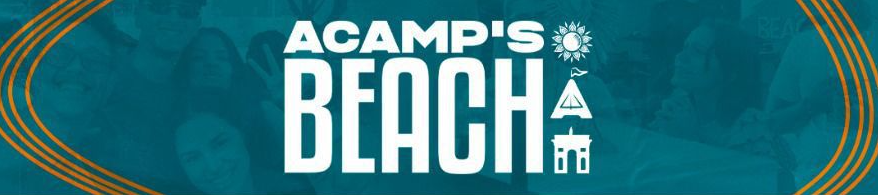
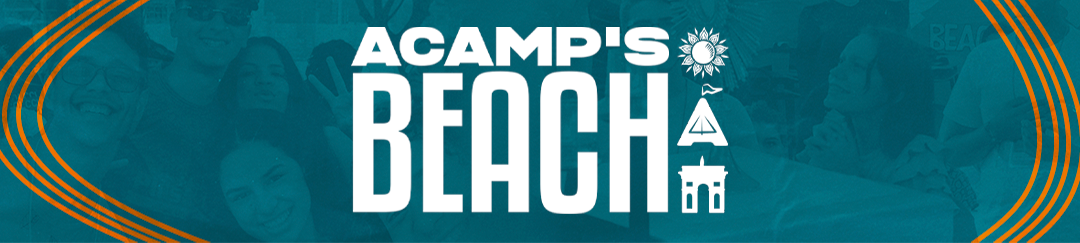
added new images and updated the olders, created the base of the form with zod and react-hook-form

Changed region(s): [[0.3075, 0.0923, 0.6765, 0.8923], [0.0, 0.0, 0.2153, 1.0], [0.8918, 0.0, 1.0, 1.0]]

diff --git a/src/pages/index.tsx b/src/pages/index.tsx
@@ -1,15 +1,46 @@
 import Header from "@/components/header";
-import { Image } from "@chakra-ui/react";
+import {
+  Box,
+  Button,
+  FormControl,
+  FormErrorMessage,
+  FormLabel,
+  Grid,
+  Heading,
+  Image,
+  Input,
+  VStack,
+} from "@chakra-ui/react";
 import AcampsBeach from "../Assets/AcampsBeach.png";
 import AcampsBeachFooter from "../Assets/AcampsBeachFooter.png";
 import carrossel1 from "../Assets/Carrossel1.jpg";
-import carrossel2 from "../Assets/Carrossel2.jpg"
-import carrossel3 from "../Assets/Carrossel3.jpg"
-import carrossel4 from "../Assets/Carrossel4.jpg"
-import carrossel5 from "../Assets/Carrossel5.jpg"
+import carrossel2 from "../Assets/Carrossel2.jpg";
+import carrossel3 from "../Assets/Carrossel3.jpg";
+import carrossel4 from "../Assets/Carrossel4.jpg";
+import carrossel5 from "../Assets/Carrossel5.jpg";
+import Footer from "../Assets/Footer.png";
+import FormularioDeInscrição from "../Assets/FormularioDeInscrição.png";
+import Lotes from "../Assets/Lotes.png";
 import React, { Component } from "react";
 import "react-responsive-carousel/lib/styles/carousel.min.css";
 import { Carousel } from "react-responsive-carousel";
+import { useForm } from "react-hook-form";
+import { zodResolver } from "@hookform/resolvers/zod";
+import { z } from "zod";
+
+const schema = z.object({
+  nomeCompleto: z.string().nonempty(),
+  idade: z.number().int().min(1).max(150),
+  telefone: z.string().pattern(/^\d{10}$/),
+  nomeResponsavel: z.string().optional(),
+  numeroResponsavel: z.string().optional(),
+  grupoOração: z.string().optional(),
+  participaShalom: z.boolean().optional(),
+  alergias: z.string().optional(),
+  email: z.string().email(),
+  senha: z.string().min(8),
+  formaPagamento: z.enum(["dinheiro", "pix", "cartao de credito/debito"]),
+});
 
 class DemoCarousel extends Component {
   render() {
@@ -34,16 +65,153 @@ class DemoCarousel extends Component {
     );
   }
 }
+
+const { register, handleSubmit, formState } = useForm({
+  resolver: zodResolver(schema),
+  mode: "onBlur",
+});
+
+const { errors } = formState;
+
+const onSubmit = (data: any) => {
+  console.log(data);
+};
+
 export default function Home() {
   return (
     <>
       <Header />
 
-      <Image src={AcampsBeach.src} alt="Acamps Beach" w="100%" mb="50px"/>
+      <Image src={AcampsBeach.src} alt="Acamps Beach" w="100%" mb="50px" />
 
       <DemoCarousel />
 
-      <Image src={AcampsBeachFooter.src} alt="Acamps Beach Info" w="100%" mt="30px"/>
+      <Image
+        src={AcampsBeachFooter.src}
+        alt="Acamps Beach Info"
+        w="100%"
+        mt="30px"
+      />
+
+      <Image src={Lotes.src} alt="Acamps Beach Lotes" w="100%" />
+
+      <Image
+        src={FormularioDeInscrição.src}
+        alt="Acamps Beach Formulario Logo"
+        w="20%"
+        ml="60px"
+      />
+
+      <form onSubmit={handleSubmit(onsubmit)}>
+        <FormControl isInvalid={errors.nomeCompleto}>
+          <FormLabel>NOME COMPLETO:</FormLabel>
+          <Input {...register("nomeCompleto")} />
+          <FormErrorMessage>
+            {errors.nomeCompleto && errors.nomeCompleto.message}
+          </FormErrorMessage>
+        </FormControl>
+
+        <FormControl isInvalid={errors.idade}>
+          <FormLabel>SUA IDADE:</FormLabel>
+          <Input type="number" {...register("idade")} />
+          <FormErrorMessage>
+            {errors.idade && errors.idade.message}
+          </FormErrorMessage>
+        </FormControl>
+
+        <FormControl isInvalid={errors.telefone}>
+          <FormLabel>TELEFONE PARA CONTATO:</FormLabel>
+          <Input {...register("telefone")} />
+          <FormErrorMessage>
+            {errors.telefone && errors.telefone.message}
+          </FormErrorMessage>
+        </FormControl>
+
+        <FormControl isInvalid={errors.nomeResponsavel}>
+          <FormLabel>SE MENOR DE IDADE, NOME DO RESPONSÁVEL:</FormLabel>
+          <Input {...register("nomeResponsavel")} />
+          <FormErrorMessage>
+            {errors.nomeResponsavel && errors.nomeResponsavel.message}
+          </FormErrorMessage>
+        </FormControl>
+
+        <FormControl isInvalid={errors.numeroResponsavel}>
+          <FormLabel>NÚMERO DO RESPONSÁVEL:</FormLabel>
+          <Input {...register("numeroResponsavel")} />
+          <FormErrorMessage>
+            {errors.numeroResponsavel && errors.numeroResponsavel.message}
+          </FormErrorMessage>
+        </FormControl>
+
+        <FormControl>
+          <FormLabel>VOCÊ PARTICIPA DA OBRA SHALOM:</FormLabel>
+          <Input {...register("obraShalom")} />
+          <FormErrorMessage>
+            {errors.obraShalom && errors.obraShalom.message}
+          </FormErrorMessage>
+        </FormControl>
+
+        <FormControl isInvalid={errors.grupoOração}>
+          <FormLabel>SE SIM, QUAL O NOME DO GRUPO DE ORAÇÃO?</FormLabel>
+          <Input {...register("grupoOração")} />
+          <FormErrorMessage>
+            {errors.grupoOração && errors.grupoOração.message}
+          </FormErrorMessage>
+        </FormControl>
+
+        <FormControl isInvalid={errors.membroComunidade}>
+          <FormLabel>VOCÊ É MEMBRO DA COMUNIDADE DE VIDA OU ALIANÇA?</FormLabel>
+          <Input {...register("aliançaOuVida")} />
+          <FormErrorMessage>
+            {errors.aliançaOuVida && errors.aliançaOuVida.message}
+          </FormErrorMessage>
+        </FormControl>
+
+        <FormControl isInvalid={errors.alergias}>
+          <FormLabel>VOCÊ É ALÉRGICO A ALGUMA COMIDA OU REMÉDIO?</FormLabel>
+          <Input {...register("alergias")} />
+          <FormErrorMessage>
+            {errors.alergias && errors.alergias.message}
+          </FormErrorMessage>
+        </FormControl>
+
+        <FormControl isInvalid={errors.email}>
+          <FormLabel>DIGITE SEU E-MAIL PARA LOGIN:</FormLabel>
+          <Input type="email" {...register("email")} />
+          <FormErrorMessage>
+            {errors.email && errors.email.message}
+          </FormErrorMessage>
+        </FormControl>
+
+        <FormControl isInvalid={errors.senha}>
+          <FormLabel>CADASTRE UMA SENHA DE 8 DÍGITOS</FormLabel>
+          <Input type="password" {...register("senha")} />
+          <FormErrorMessage>
+            {errors.senha && errors.senha.message}
+          </FormErrorMessage>
+        </FormControl>
+
+        <FormControl isInvalid={errors.formaPagamento}>
+          <FormLabel>SELECIONE A FORMA DE PAGAMENTO</FormLabel>
+          <Select {...register("formaPagamento")}>
+            <option value="">Selecione uma opção</option>
+            <option value="dinheiro">Dinheiro</option>
+            <option value="pix">PIX</option>
+            <option value="cartao de credito/debito">
+              Cartão de Crédito/Débito
+            </option>
+          </Select>
+          <FormErrorMessage>
+            {errors.formaPagamento && errors.formaPagamento.message}
+          </FormErrorMessage>
+        </FormControl>
+
+        <Button mt={4} colorScheme="teal" type="submit">
+          FINALIZAR INSCRIÇÃO
+        </Button>
+      </form>
+
+      <Image src={Footer.src} alt="Acamps Beach Footer" w="100%" />
     </>
   );
 }
